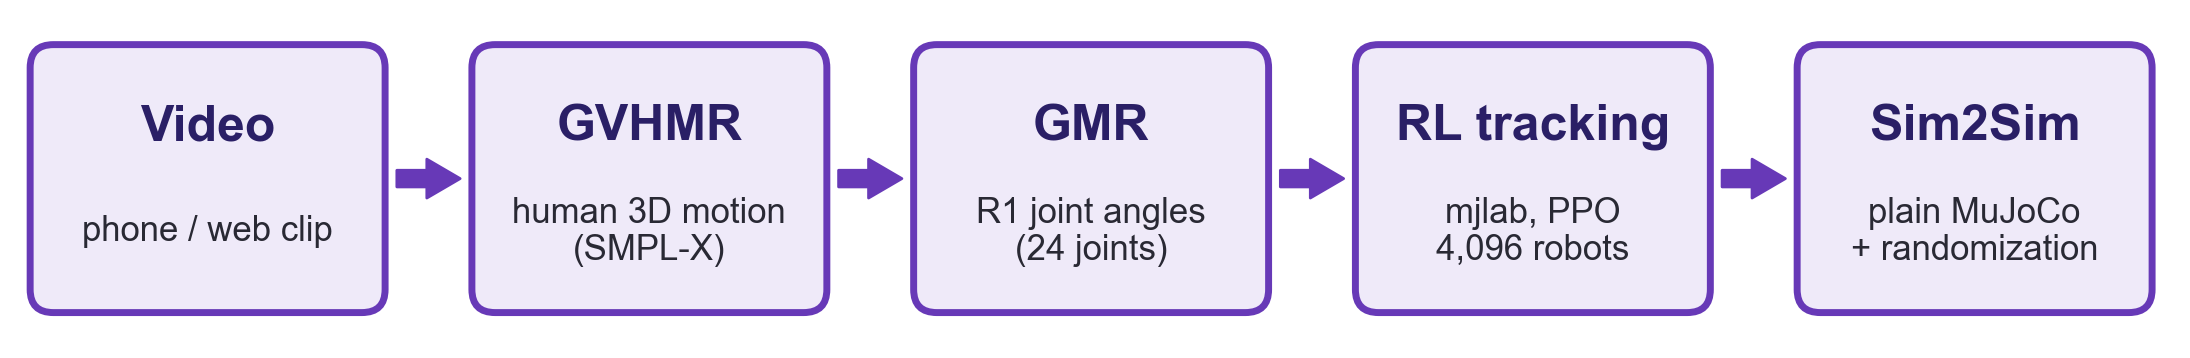
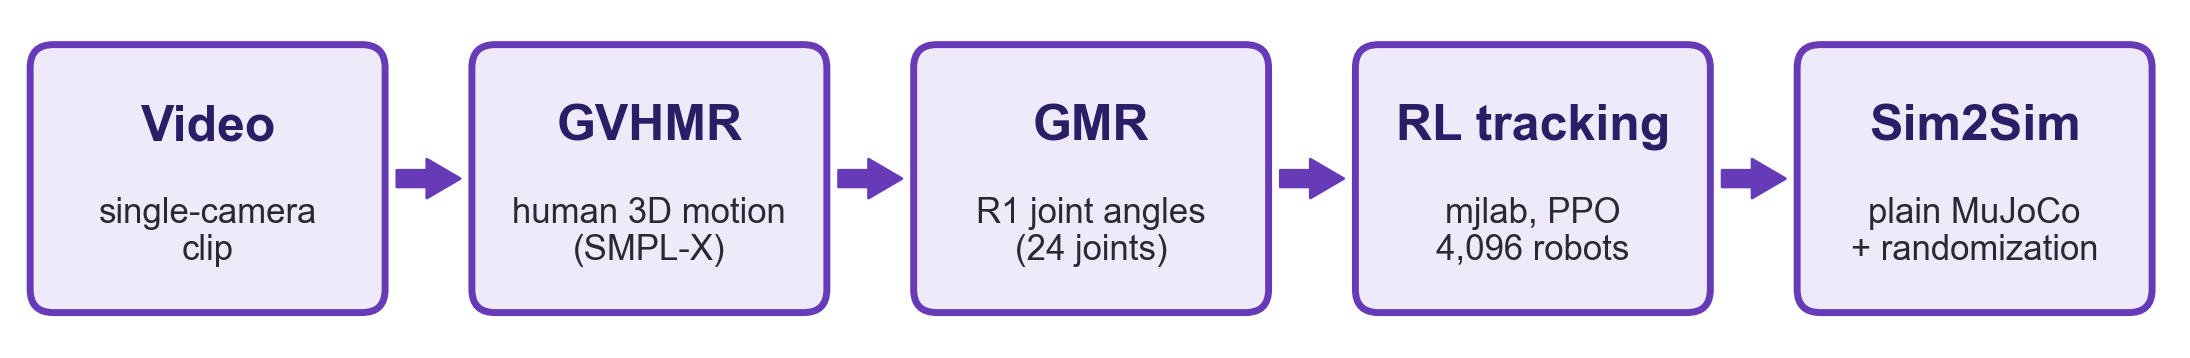
Video-to-R1 Pipeline: mark paper as first draft; phone video and sim2real still to do
The paper now states that all results are in simulation on two third-party clips, and adds
a Remaining work section (own phone video, sim2real on the R1, seed study). README gets the
same status line. Pipeline strip says single-camera clip instead of phone, since no phone
video has been run yet.

Changed region(s): [[0.0311, 0.5531, 0.1553, 0.7374]]

diff --git a/Presentations/Shaoqin-Li/Video-to-R1 Pipeline/paper/draft.md b/Presentations/Shaoqin-Li/Video-to-R1 Pipeline/paper/draft.md
@@ -1,16 +1,24 @@
 # From Video to Humanoid: A Reproducible Motion-Imitation Pipeline for the Unitree R1, and What Breaks It in Transfer
 
-*Working paper — draft 1, 2026-10-08. Shaoqin Li¹, Yi Sun¹ (author list to be confirmed).*
+*FIRST DRAFT — work in progress, 2026-10-09. Shaoqin Li¹, Yi Sun¹ (author list to be confirmed).*
 *¹ Applied and Embodied AI Laboratory, The City College of New York.*
 
-*Status: every number in this draft comes from a run whose output is in this folder. Section 6.4 (seed study)
-is still running; its table is marked PENDING and must not be cited until it is filled in.*
+> **Status of this draft.** The pipeline is not finished, so neither is the paper. Done: every stage runs end to end
+> **in simulation**, on two web clips, and every number here comes from a run whose output is in this folder.
+> Not yet done:
+> 1. **The authors' own phone video** has not been run through the pipeline. Both clips so far are third-party,
+>    static-camera videos (GVHMR's example clip and a stock dance video).
+> 2. **Sim2real**: nothing has run on the physical R1.
+> 3. **Seed study** (Section 6.4): running; its table is marked PENDING and must not be cited until filled in.
+>
+> Section 8 lists the remaining work. The title, abstract and conclusions will be revised once (1) and (2) are done.
+> Until then, read every claim as a claim about simulation.
 
 ---
 
 ## Abstract
 
-We build and release a complete pipeline that turns an ordinary monocular video of a person into a motion-tracking
+We build and release a pipeline that turns a monocular video of a person into a motion-tracking
 policy for the Unitree R1, a 24-joint humanoid for which no motion-imitation work has been published. The pipeline
 chains four existing systems: GVHMR for world-grounded human motion recovery, GMR for kinematic retargeting, a
 BeyondMimic-style tracking policy trained with PPO in either mjlab (MuJoCo-Warp) or Isaac Lab (PhysX), and a
@@ -24,7 +32,9 @@ failure mode, and it appears identically in policies trained in both engines: at
 Training with randomized delay restores it to 15/20 in both, but in PhysX it costs robustness when there is no delay
 (29/30 → 17/30). (3) Joint-space tracking error overstates the gap for video-derived motion: on the dance, 27% of
 reference frames pin the left shoulder at a joint limit, where the policy reaches a similar hand position through a
-different shoulder configuration. Retargeting reports these frames as limit-compliant.
+different shoulder configuration. Retargeting reports these frames as limit-compliant. All results so far are in
+simulation, on two third-party clips. Running the authors' own phone video and deploying on the physical R1 are in
+progress.
 
 ## 1. Introduction
 
@@ -36,8 +46,8 @@ the stages are developed for a few robots (most often the Unitree G1 and H1), an
 means writing code at every boundary: robot models, IK configurations, joint orderings, unit and frame conventions,
 actuator limits, and an evaluation harness.
 
-This paper reports doing that for the Unitree R1, end to end, on a single workstation, and reports what we found when
-we tested the result. The contributions are:
+This paper reports doing that for the Unitree R1, end to end in simulation, on a single workstation, and reports what we
+found when we tested the result. Hardware deployment is the next step (Section 8). The contributions are:
 
 1. **A reproducible video-to-policy pipeline for the R1.** We add R1 support to GMR (an R1 model and IK configurations
    for all eight GMR input formats), to mjlab and to Isaac Lab (robot definitions and tracking tasks, including a
@@ -292,11 +302,39 @@ reference is comfortably feasible", and joint-space error on such references mix
 harmless redundancy. Task-space error, or a check of how often the reference sits at a limit, is more informative.
 The dance policy also had a quarter of the tennis policy's training iterations, which explains part of the gap.
 
-## 8. Limitations
+## 8. Remaining work
+
+This draft stops at simulation. Three pieces of work remain before it is a complete paper, and the first two can change
+its claims.
+
+**8.1 The authors' own phone video.** Both clips so far are third-party videos filmed with a fixed camera. A phone clip
+tests what they do not:
+- a handheld or moving camera, which needs GVHMR's visual-odometry path (DPVO) instead of the static-camera option;
+- our own lighting, framing and clothing, and partial occlusion;
+- whether the linear ground pass still removes vertical drift on a less clean recovery.
+
+The plan is to record a short whole-body motion, run it through Stages 1–4 unchanged, and report the same measurements
+as for tennis and dance: plausibility checks, how often the reference sits at joint limits, in-engine success, and
+sim2sim survival.
+
+**8.2 Sim2real on the physical R1.** The simulation results already set the order:
+1. **Measure the R1's real command latency** (policy output to motor response) through the low-level DDS interface.
+   Retrain with the delay range centred on the measured value. Section 6.3 shows this is the failure that matters most.
+2. **Supply base linear velocity.** Either add a state estimator, or train and evaluate the no-state-estimation task
+   variant (Section 6.5).
+3. **Check the friction margin** on the lab floor, since survival falls at foot friction 0.15.
+4. **Deploy on the gantry first**, supported and then lowered, using the group's gantry-supported test procedure, with
+   joint-range monitoring and a damping fallback. Then deploy free-standing.
+5. **Report** the same quantities measured in simulation (completion, tracking error, failure mode), so the sim2sim
+   results can be checked against hardware.
+
+**8.3 Seed study** (Section 6.4), running at the time of writing.
+
+## 9. Limitations
 
 - **No hardware.** All results are in simulation, with idealized actuators (PD with torque limits, no motor dynamics).
   The sim2real items listed here (delay, base velocity, friction margin) have not been tested on the physical R1.
-- **Two motions, mostly one seed** (Section 6.4 addresses the seed question for the delay result).
+- **Two third-party, static-camera clips; mostly one seed** (Section 6.4 addresses the seed question for the delay result).
 - The harness holds delay constant for the whole episode. Training redraws it every second and starts at zero, so the
   40–60 ms scenarios are stricter than training.
 - Isaac Lab training ran on native Windows, because GPU PhysX hangs under WSL2 on this GPU. The harness ran under WSL2.
@@ -304,14 +342,15 @@ The dance policy also had a quarter of the tennis policy's training iterations, 
   (from scratch vs fine-tuned).
 - The unexplained cost of delay training in PhysX (29/30 → 17/30).
 
-## 9. Conclusion
+## 10. Conclusion
 
-A video of a person can be turned into a humanoid policy for a robot that no published imitation pipeline supports,
-using only open tools, on one workstation, and every stage can be reproduced exactly. What the resulting policies
+In simulation, a video of a person can be turned into a humanoid policy for a robot that no published imitation
+pipeline supports, using only open tools, on one workstation, and every stage can be reproduced exactly. What the resulting policies
 lacked was not physics fidelity but robustness to things a synchronous sim2sim check does not contain: command delay,
 an unobservable base velocity, and low friction. Two of the three findings concern the check rather than the policy:
 a harness must match the training model's floor and timestep, and joint-space error must be read against how often
-the reference sits at a joint limit.
+the reference sits at a joint limit. Whether these findings carry over to the physical robot is the subject of the
+remaining work in Section 8.
 
 ---
 

diff --git a/Presentations/Shaoqin-Li/Video-to-R1 Pipeline/README.md b/Presentations/Shaoqin-Li/Video-to-R1 Pipeline/README.md
@@ -25,6 +25,10 @@ The whole chain was run on two motions: a tennis serve (GVHMR's own example clip
 ("Woman Dancing" by Antoni Shkraba, Pexels, 22 s used). This folder has everything needed to re-run each stage,
 the intermediate data of each stage, the trained policies, and the results.
 
+**Status: work in progress.** Everything here runs in simulation, on two third-party, static-camera clips.
+Not done yet: running my own phone video through the pipeline, and sim2real on the physical R1.
+The paper in `paper/draft.md` is a first draft for the same reason.
+
 Weekly decks with the step-by-step story: `../Week 26` (GMR), `../Week 27`, `../Week 28` (imitation learning + sim2sim),
 `../Week 29` (Isaac Lab dance).
 
